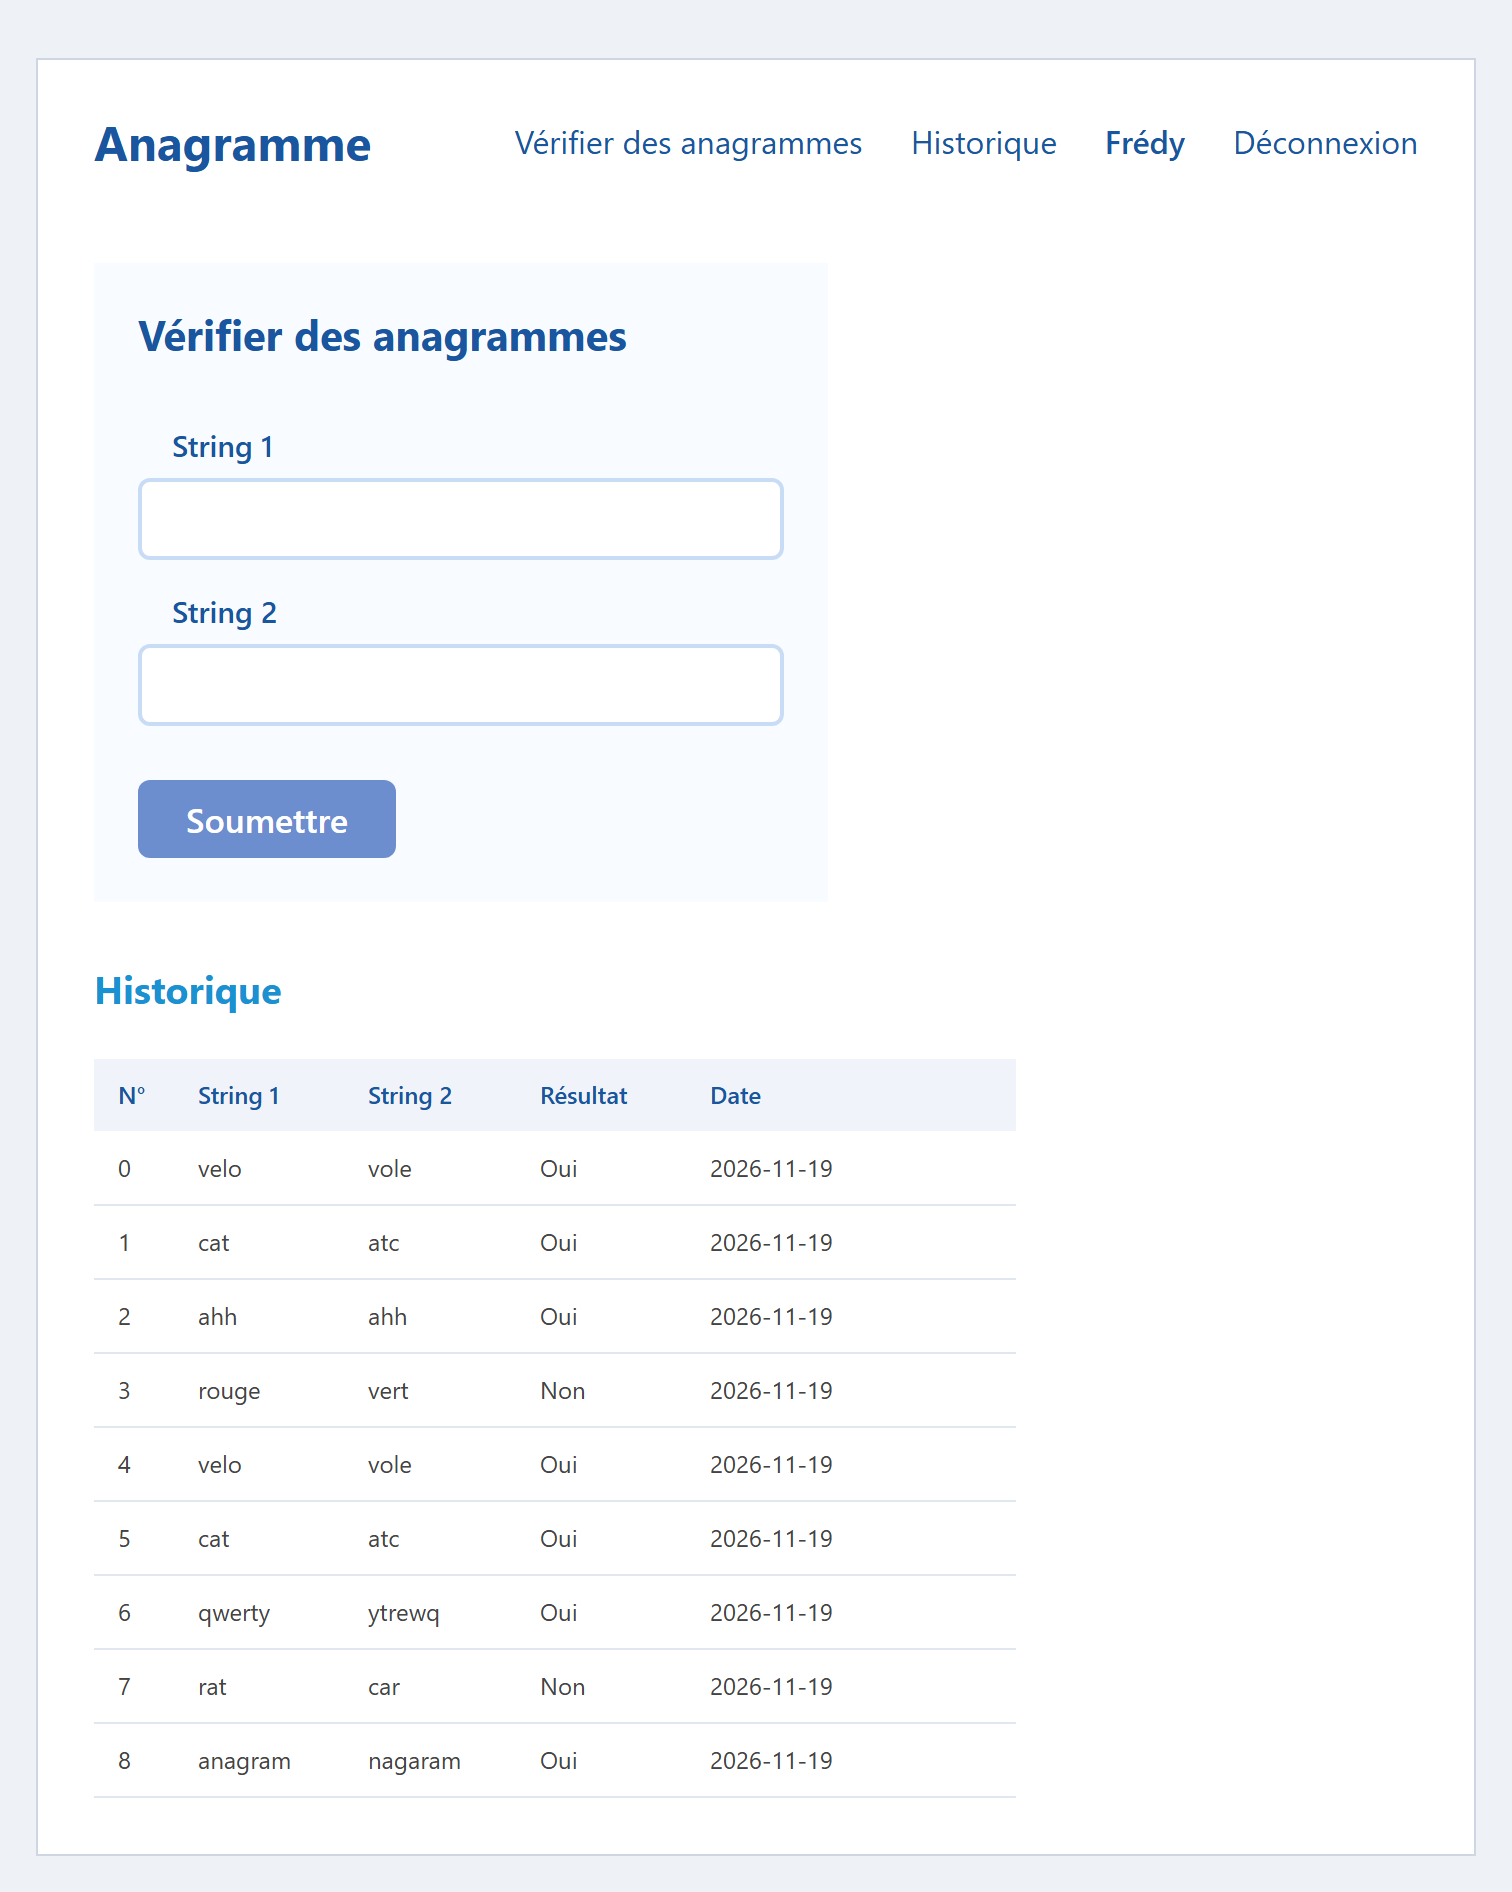
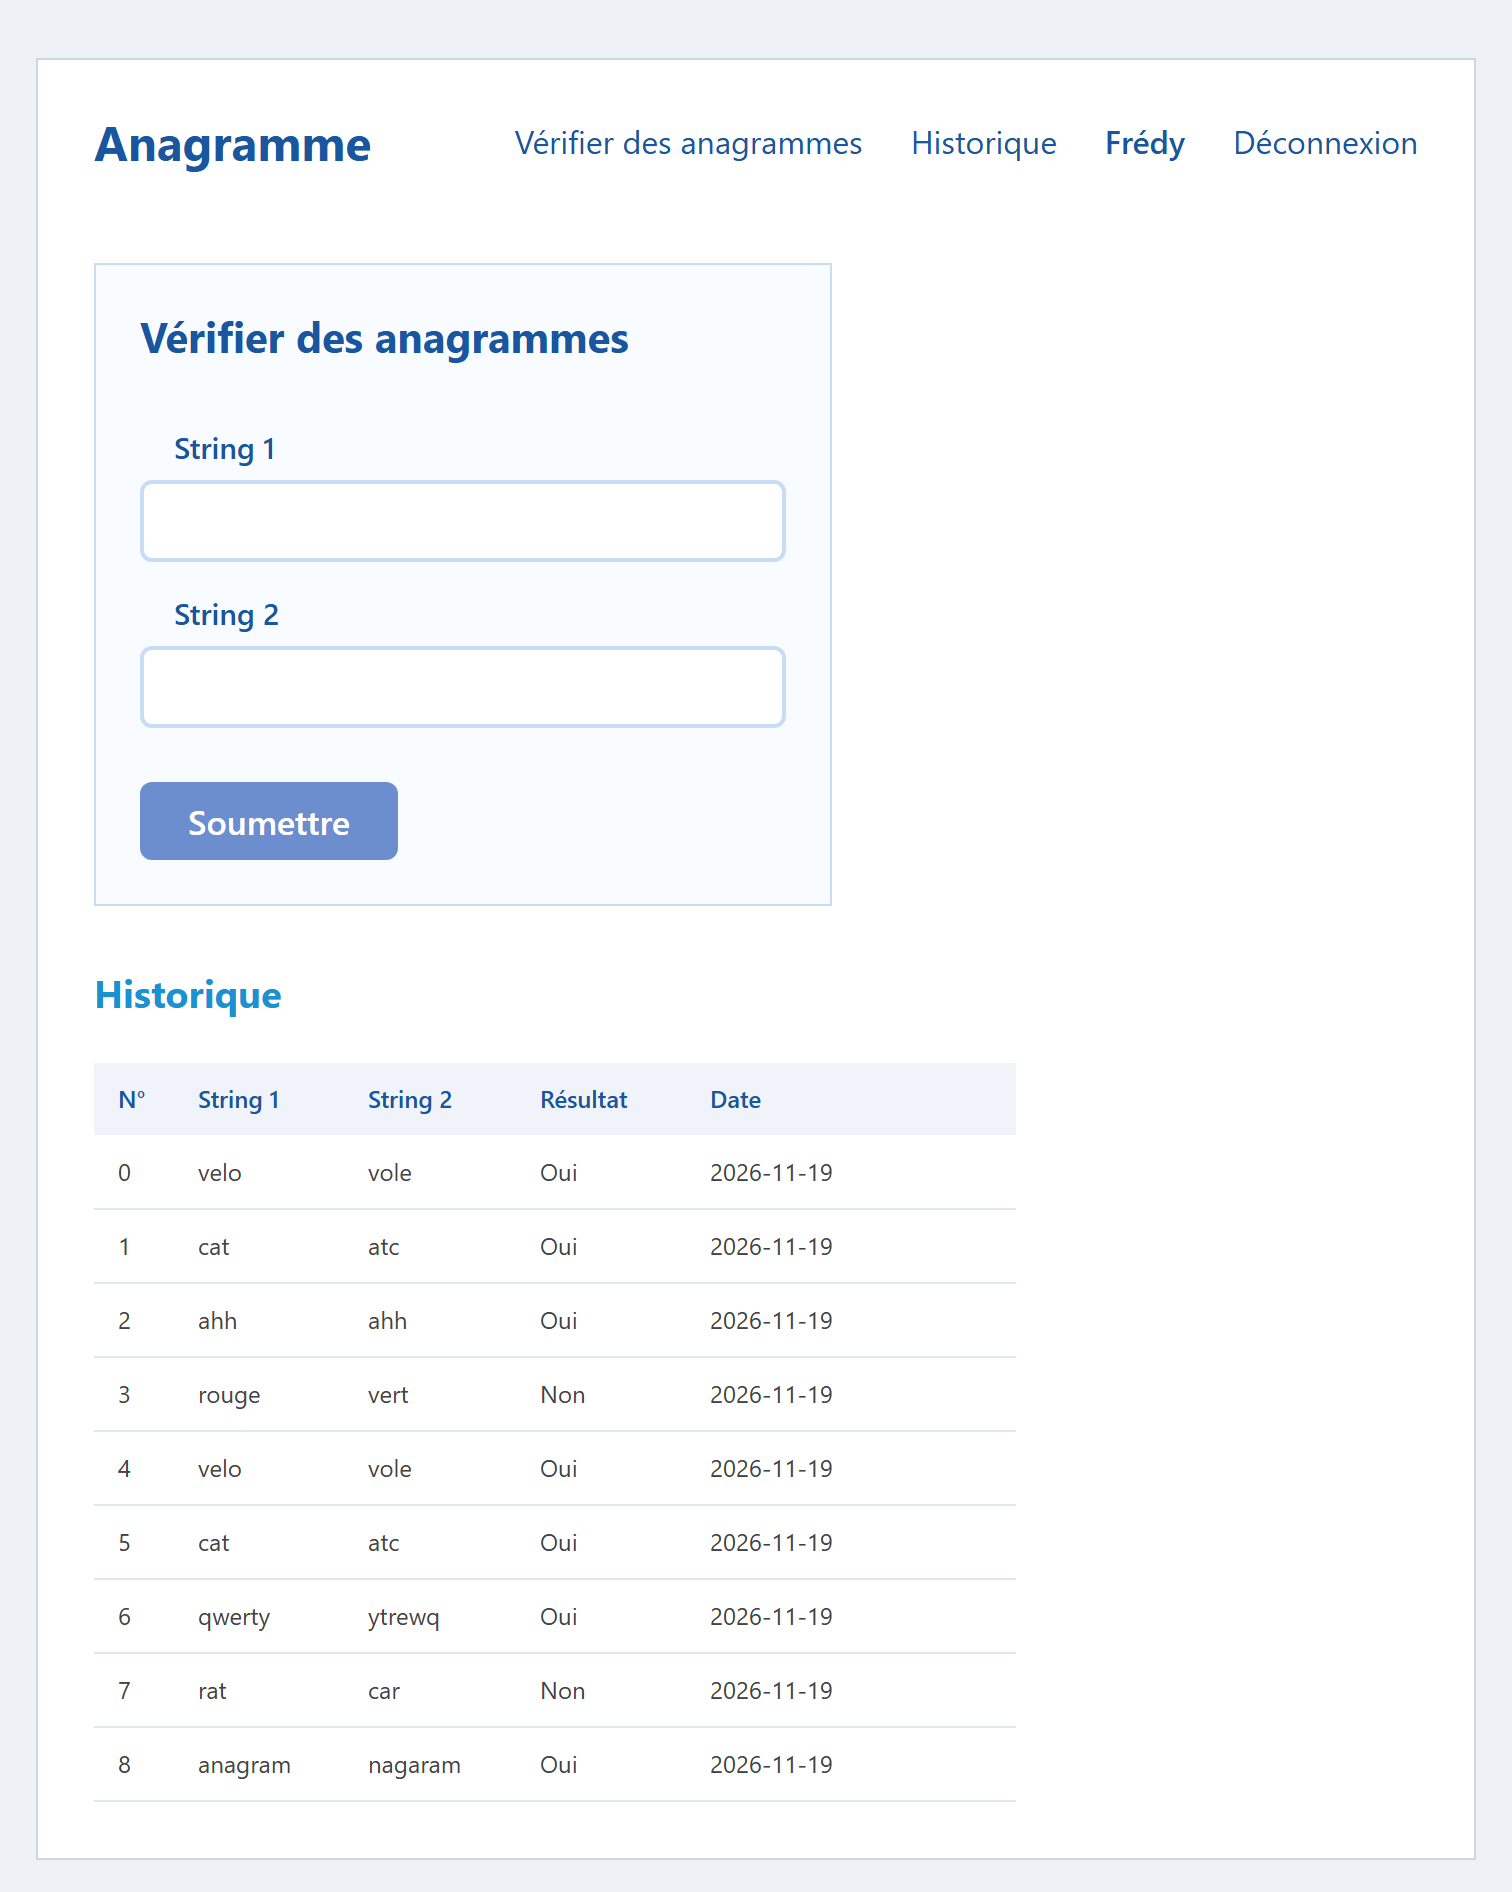
Colorer les bordures du panneau selon le resultat au lieu de la carte

diff --git a/assets/css/style.css b/assets/css/style.css
@@ -142,47 +142,11 @@ a:hover { text-decoration: underline; }
 /* Carte blanche                                                               */
 /* -------------------------------------------------------------------------- */
 .card {
-    position: relative;
-    overflow: hidden;
     background: var(--card);
     border: 1px solid #CDD6E2;
     margin: 29px 18px 0;
     padding: var(--card-pad-top) 28px 28px;
     min-height: 517px;
-}
-
-/* La couleur du résultat traverse toute la grande carte. */
-.card::after {
-    content: '';
-    position: absolute;
-    inset: 0 auto 0 0;
-    width: 0;
-    pointer-events: none;
-    z-index: 0;
-    opacity: 0.10;
-}
-
-.card > * { position: relative; z-index: 1; }
-
-body.has-result-ok .card { border-color: var(--green); }
-body.has-result-ok .card::after {
-    background: var(--green);
-    animation: sweep-card 900ms ease-out forwards;
-}
-
-body.has-result-ko .card { border-color: var(--red); }
-body.has-result-ko .card::after {
-    background: var(--red);
-    animation: sweep-card 900ms ease-out forwards;
-}
-
-@keyframes sweep-card {
-    from { width: 0; }
-    to   { width: 100%; }
-}
-
-@media (prefers-reduced-motion: reduce) {
-    .card::after { animation: none; width: 100%; }
 }
 
 .site-header {
@@ -231,8 +195,15 @@ body.has-result-ko .card::after {
     display: inline-block;
     vertical-align: top;
     background: var(--panel);
+    border: 1px solid var(--border);
     padding: 22px;
+    transition: border-color 300ms ease;
 }
+
+/* Seules les bordures du panneau « Vérifier des anagrammes » prennent
+   la couleur du résultat, en plus du message lui-même. */
+body.has-result-ok .panel { border-color: var(--green); }
+body.has-result-ko .panel { border-color: var(--red); }
 
 .panel h1 {
     margin: 0 0 31px;

diff --git a/includes/header.php b/includes/header.php
@@ -11,7 +11,7 @@ if ($forcedLayout === 'wide') {
     $layoutClass = ' layout-narrow';
 }
 
-// Le résultat colore aussi la grande carte (vert pour un succès, rouge sinon).
+// Le résultat colore les bordures du panneau (vert pour un succès, rouge sinon).
 $resultState = $result ?? null;
 $resultClass = '';
 if ($resultState === true) {
